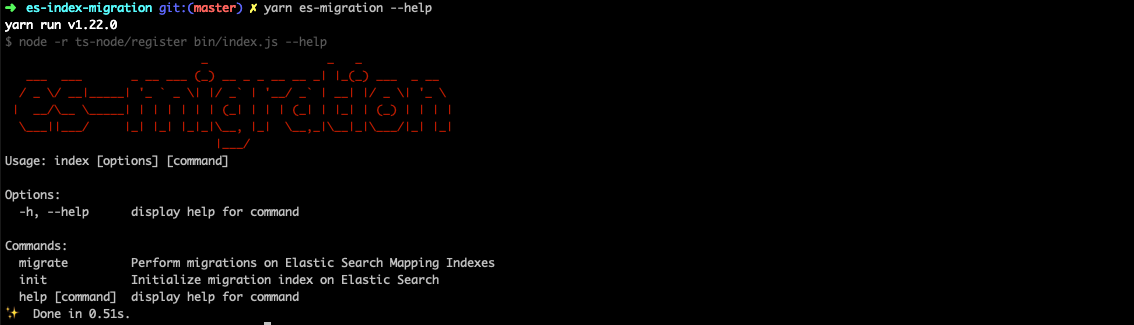
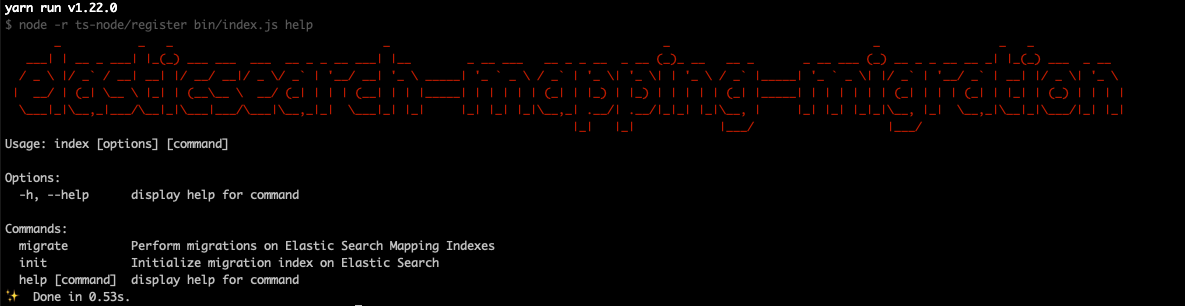
Adjust readme file

diff --git a/src/index.ts b/src/index.ts
@@ -13,7 +13,7 @@ const chalk = require('chalk');
 const figlet = require('figlet');
 console.log(
   chalk.red(
-    figlet.textSync('esm-migration', { horizontalLayout: 'default' })
+    figlet.textSync('elasticsearch-mapping-migration', { horizontalLayout: 'default' })
   )
 );
 

diff --git a/README.md b/README.md
@@ -11,7 +11,7 @@ yarn add elasticsearch-mapping-migration
 
 Then run
 ````bash
-yarn es-migration --help
+yarn esm-migration help
 ````
 
 ![Help Command](docs/imgs/help.png)
@@ -23,7 +23,7 @@ ESMIGRATION_HOST=your-elasticsearch-host
 ESMIGRATION_PORT=your-elasticsearch-port
 ESMIGRATION_PROTOCOL=your-elasticsearch-protocol-http-or-https
 ESMIGRATION_MIGRATION_LIST_FILE=path/to/your/migration-list.json
-ESMIGRATION_MIGRATION_INDEX=es-migration
+ESMIGRATION_MIGRATION_INDEX=esm-migration
 ````
 
 All paths must be relative to your project root directory. So no absolute path here. 
@@ -36,9 +36,13 @@ the variable `ESMIGRATION_MIGRATION_INDEX` set which elastic search index will b
 
 ### Initializing the migration index
 ````bash
-yarn es-migration init
+yarn esm-migration init
 ````
 This will create an index to store all performed migrations identified by timestamp
+![Help Command](docs/imgs/init-index-created.png)
+
+If the `init` is run again then you have
+![Help Command](docs/imgs/init-index-already-exists-message.png)
 
 
 ### Migration list file
@@ -58,7 +62,6 @@ Migration list example
 The migration list file contains a list of migrations to be executed. Each item has the property `timestamp` which is an unique identifier. 
 
 Once it is performed, then that `timestamp` is stored. That is how a migration is only executed once.  
-
 
 ### Migration file
 
@@ -95,7 +98,11 @@ As Elastic Search does not allow multiple field mapping update, every migration 
 
 ### Performing a migration
 ````bash
-yarn es-migration migrate
+yarn esm-migration migrate
 ````
-Then there should be a output like below
+Then there should be an output like below
 ![Migrate Command](docs/imgs/migrate.png)
+
+### Behind the scenes
+
+When the command `esm-migration migrate` is executed, the migration list file is loaded. Then all migrations within will be performed.
